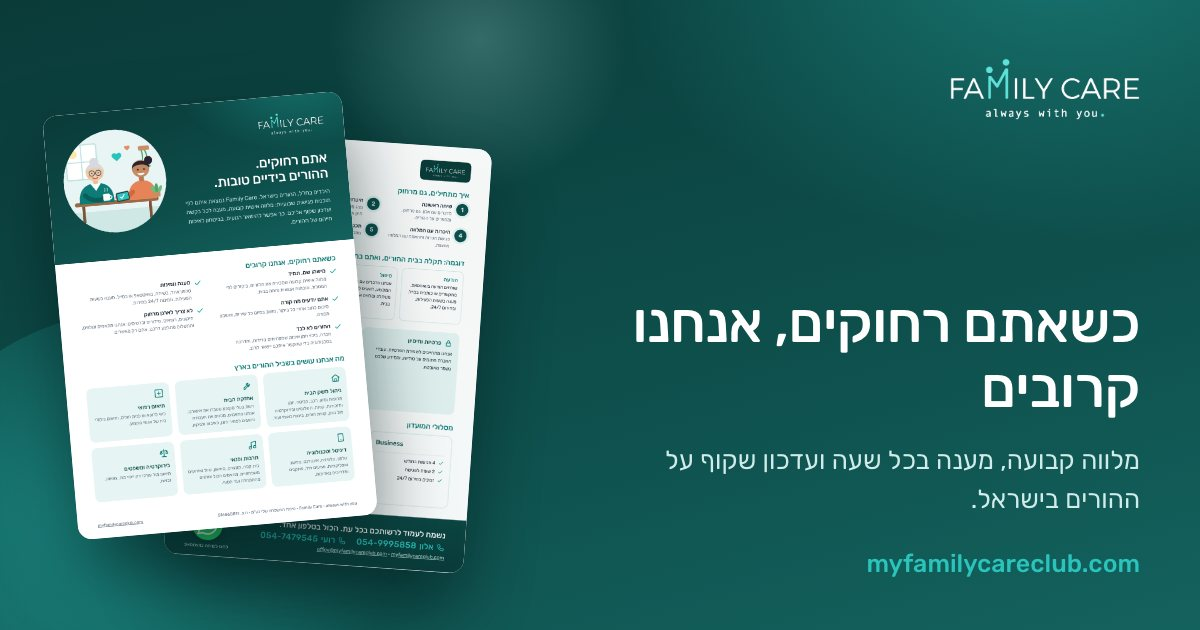
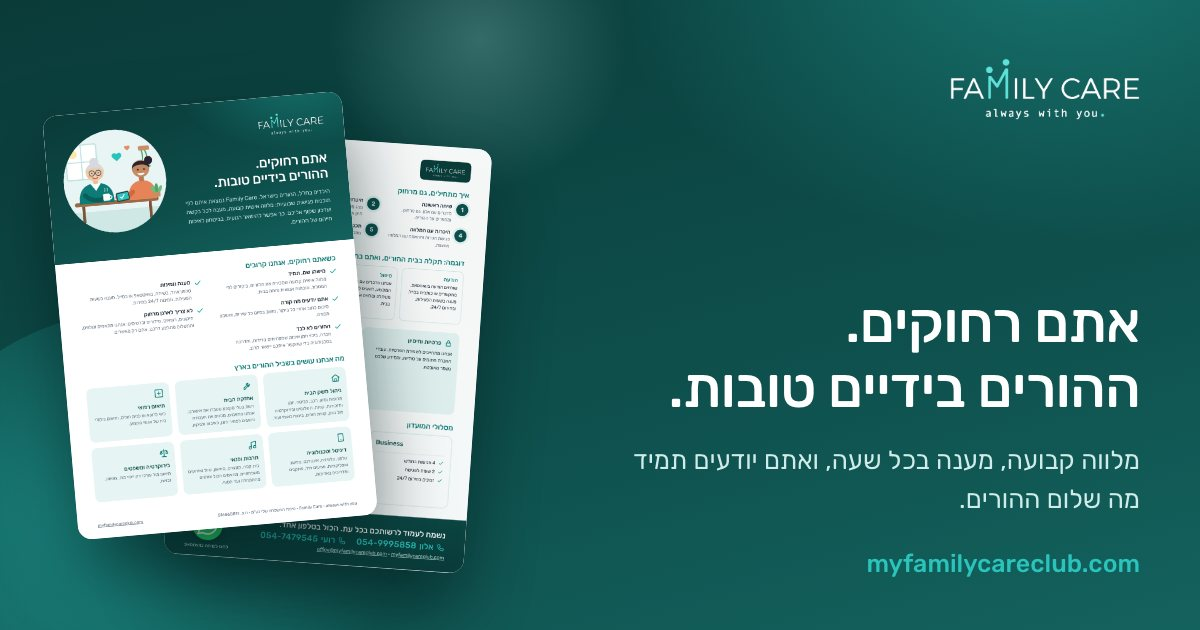
Abroad share card: headline matches brochure, new subline without 'עדכון שקוף' (cache-bust v7)

Changed region(s): [[0.5242, 0.4825, 0.9558, 0.6635], [0.5242, 0.7238, 0.7092, 0.754], [0.8017, 0.7841, 0.925, 0.8143]]

diff --git a/public/s/abroad/index.html b/public/s/abroad/index.html
@@ -3,20 +3,20 @@
 <head>
 <meta charset="utf-8">
 <meta name="viewport" content="width=device-width, initial-scale=1">
-<title>Family Care | כשאתם רחוקים, אנחנו קרובים</title>
-<meta name="description" content="הילדים בחו&quot;ל, ההורים בישראל: מלווה אישית קבועה, מענה לכל בקשה ועדכון שקוף.">
+<title>Family Care | אתם רחוקים. ההורים בידיים טובות.</title>
+<meta name="description" content="הילדים בחו&quot;ל, ההורים בישראל: מלווה אישית קבועה, מענה לכל בקשה, ואתם יודעים תמיד מה שלומם.">
 <meta property="og:type" content="website">
 <meta property="og:site_name" content="Family Care">
 <meta property="og:locale" content="he_IL">
 <meta property="og:url" content="https://myfamilycareclub.com/s/abroad/">
-<meta property="og:title" content="כשאתם רחוקים, אנחנו קרובים">
-<meta property="og:description" content="הילדים בחו&quot;ל, ההורים בישראל: מלווה אישית קבועה, מענה לכל בקשה ועדכון שקוף.">
-<meta property="og:image" content="https://myfamilycareclub.com/s/abroad/card.jpg?v=6">
+<meta property="og:title" content="אתם רחוקים. ההורים בידיים טובות.">
+<meta property="og:description" content="הילדים בחו&quot;ל, ההורים בישראל: מלווה אישית קבועה, מענה לכל בקשה, ואתם יודעים תמיד מה שלומם.">
+<meta property="og:image" content="https://myfamilycareclub.com/s/abroad/card.jpg?v=7">
 <meta property="og:image:width" content="1200">
 <meta property="og:image:height" content="630">
 <meta name="twitter:card" content="summary_large_image">
 <meta http-equiv="refresh" content="0;url=/materials/abroad-brochure.pdf">
 <style>body{margin:0;min-height:100vh;display:grid;place-items:center;font-family:system-ui,sans-serif;background:#0E4F4C;color:#fff;text-align:center}a{color:#fff;background:#16A5A0;padding:14px 28px;border-radius:999px;text-decoration:none;font-weight:600}</style>
 </head>
-<body><main><p>כשאתם רחוקים, אנחנו קרובים</p><p><a href="/materials/abroad-brochure.pdf">פתיחת הברושור</a></p></main></body>
+<body><main><p>אתם רחוקים. ההורים בידיים טובות.</p><p><a href="/materials/abroad-brochure.pdf">פתיחת הברושור</a></p></main></body>
 </html>

diff --git a/public/s/social-post-independence/index.html b/public/s/social-post-independence/index.html
@@ -11,7 +11,7 @@
 <meta property="og:url" content="https://myfamilycareclub.com/s/social-post-independence/">
 <meta property="og:title" content="עצמאות מלאה, וביטחון שיש על מי לסמוך">
 <meta property="og:description" content="מלווה אישית קבועה, בעלי מקצוע נבחרים וטיפול מלא מההזמנה ועד הסיום.">
-<meta property="og:image" content="https://myfamilycareclub.com/s/social-post-independence/card.jpg?v=6">
+<meta property="og:image" content="https://myfamilycareclub.com/s/social-post-independence/card.jpg?v=7">
 <meta property="og:image:width" content="1200">
 <meta property="og:image:height" content="630">
 <meta name="twitter:card" content="summary_large_image">

diff --git a/public/s/social-post-second-job/index.html b/public/s/social-post-second-job/index.html
@@ -11,7 +11,7 @@
 <meta property="og:url" content="https://myfamilycareclub.com/s/social-post-second-job/">
 <meta property="og:title" content="הבית של ההורים הפך לעבודה השנייה שלך?">
 <meta property="og:description" content="מלווה אישית קבועה, בעלי מקצוע נבחרים וטיפול מלא מההזמנה ועד הסיום.">
-<meta property="og:image" content="https://myfamilycareclub.com/s/social-post-second-job/card.jpg?v=6">
+<meta property="og:image" content="https://myfamilycareclub.com/s/social-post-second-job/card.jpg?v=7">
 <meta property="og:image:width" content="1200">
 <meta property="og:image:height" content="630">
 <meta name="twitter:card" content="summary_large_image">

diff --git a/public/s/social-post-extra-child/index.html b/public/s/social-post-extra-child/index.html
@@ -11,7 +11,7 @@
 <meta property="og:url" content="https://myfamilycareclub.com/s/social-post-extra-child/">
 <meta property="og:title" content="הילד הנוסף שאין לך זמן להיות עבורם">
 <meta property="og:description" content="מלווה אישית קבועה, בעלי מקצוע נבחרים וטיפול מלא מההזמנה ועד הסיום.">
-<meta property="og:image" content="https://myfamilycareclub.com/s/social-post-extra-child/card.jpg?v=6">
+<meta property="og:image" content="https://myfamilycareclub.com/s/social-post-extra-child/card.jpg?v=7">
 <meta property="og:image:width" content="1200">
 <meta property="og:image:height" content="630">
 <meta name="twitter:card" content="summary_large_image">

diff --git a/public/s/companions-social-pdf/index.html b/public/s/companions-social-pdf/index.html
@@ -11,7 +11,7 @@
 <meta property="og:url" content="https://myfamilycareclub.com/s/companions-social-pdf/">
 <meta property="og:title" content="מחפשים עבודה עם משמעות לצד הלימודים?">
 <meta property="og:description" content="מלווים אישיים לגיל השלישי ברמת השרון, הרצליה, צפון ת&quot;א ורעננה.">
-<meta property="og:image" content="https://myfamilycareclub.com/s/companions-social-pdf/card.jpg?v=6">
+<meta property="og:image" content="https://myfamilycareclub.com/s/companions-social-pdf/card.jpg?v=7">
 <meta property="og:image:width" content="1200">
 <meta property="og:image:height" content="630">
 <meta name="twitter:card" content="summary_large_image">

diff --git a/public/s/companions-social-png/index.html b/public/s/companions-social-png/index.html
@@ -11,7 +11,7 @@
 <meta property="og:url" content="https://myfamilycareclub.com/s/companions-social-png/">
 <meta property="og:title" content="מחפשים עבודה עם משמעות לצד הלימודים?">
 <meta property="og:description" content="מלווים אישיים לגיל השלישי ברמת השרון, הרצליה, צפון ת&quot;א ורעננה.">
-<meta property="og:image" content="https://myfamilycareclub.com/s/companions-social-png/card.jpg?v=6">
+<meta property="og:image" content="https://myfamilycareclub.com/s/companions-social-png/card.jpg?v=7">
 <meta property="og:image:width" content="1200">
 <meta property="og:image:height" content="630">
 <meta name="twitter:card" content="summary_large_image">

diff --git a/public/s/social-story-teaser-2/index.html b/public/s/social-story-teaser-2/index.html
@@ -11,7 +11,7 @@
 <meta property="og:url" content="https://myfamilycareclub.com/s/social-story-teaser-2/">
 <meta property="og:title" content="הילד הנוסף שאין לך זמן להיות עבורם">
 <meta property="og:description" content="מלווה אישית קבועה, בעלי מקצוע נבחרים וטיפול מלא מההזמנה ועד הסיום.">
-<meta property="og:image" content="https://myfamilycareclub.com/s/social-story-teaser-2/card.jpg?v=6">
+<meta property="og:image" content="https://myfamilycareclub.com/s/social-story-teaser-2/card.jpg?v=7">
 <meta property="og:image:width" content="1200">
 <meta property="og:image:height" content="630">
 <meta name="twitter:card" content="summary_large_image">

diff --git a/public/s/social-story-mom-called/index.html b/public/s/social-story-mom-called/index.html
@@ -11,7 +11,7 @@
 <meta property="og:url" content="https://myfamilycareclub.com/s/social-story-mom-called/">
 <meta property="og:title" content="אמא התקשרה שוב. המזגן לא עובד.">
 <meta property="og:description" content="מלווה אישית קבועה, בעלי מקצוע נבחרים וטיפול מלא מההזמנה ועד הסיום.">
-<meta property="og:image" content="https://myfamilycareclub.com/s/social-story-mom-called/card.jpg?v=6">
+<meta property="og:image" content="https://myfamilycareclub.com/s/social-story-mom-called/card.jpg?v=7">
 <meta property="og:image:width" content="1200">
 <meta property="og:image:height" content="630">
 <meta name="twitter:card" content="summary_large_image">

diff --git a/public/s/social-tip-stay-close/index.html b/public/s/social-tip-stay-close/index.html
@@ -11,7 +11,7 @@
 <meta property="og:url" content="https://myfamilycareclub.com/s/social-tip-stay-close/">
 <meta property="og:title" content="איך נשארים קרובים גם כשגרים רחוק">
 <meta property="og:description" content="מלווה אישית קבועה, בעלי מקצוע נבחרים וטיפול מלא מההזמנה ועד הסיום.">
-<meta property="og:image" content="https://myfamilycareclub.com/s/social-tip-stay-close/card.jpg?v=6">
+<meta property="og:image" content="https://myfamilycareclub.com/s/social-tip-stay-close/card.jpg?v=7">
 <meta property="og:image:width" content="1200">
 <meta property="og:image:height" content="630">
 <meta name="twitter:card" content="summary_large_image">

diff --git a/public/s/social-story-who-manages/index.html b/public/s/social-story-who-manages/index.html
@@ -11,7 +11,7 @@
 <meta property="og:url" content="https://myfamilycareclub.com/s/social-story-who-manages/">
 <meta property="og:title" content="מי דואג להורים כשאת בפגישה?">
 <meta property="og:description" content="מלווה אישית קבועה, בעלי מקצוע נבחרים וטיפול מלא מההזמנה ועד הסיום.">
-<meta property="og:image" content="https://myfamilycareclub.com/s/social-story-who-manages/card.jpg?v=6">
+<meta property="og:image" content="https://myfamilycareclub.com/s/social-story-who-manages/card.jpg?v=7">
 <meta property="og:image:width" content="1200">
 <meta property="og:image:height" content="630">
 <meta name="twitter:card" content="summary_large_image">

diff --git a/public/s/social-post-daughter/index.html b/public/s/social-post-daughter/index.html
@@ -11,7 +11,7 @@
 <meta property="og:url" content="https://myfamilycareclub.com/s/social-post-daughter/">
 <meta property="og:title" content="חזרי להיות הבת, לא מנהלת הפרויקט">
 <meta property="og:description" content="מלווה אישית קבועה, בעלי מקצוע נבחרים וטיפול מלא מההזמנה ועד הסיום.">
-<meta property="og:image" content="https://myfamilycareclub.com/s/social-post-daughter/card.jpg?v=6">
+<meta property="og:image" content="https://myfamilycareclub.com/s/social-post-daughter/card.jpg?v=7">
 <meta property="og:image:width" content="1200">
 <meta property="og:image:height" content="630">
 <meta name="twitter:card" content="summary_large_image">

diff --git a/public/s/social-story-teaser-3/index.html b/public/s/social-story-teaser-3/index.html
@@ -11,7 +11,7 @@
 <meta property="og:url" content="https://myfamilycareclub.com/s/social-story-teaser-3/">
 <meta property="og:title" content="מי מנהל את הבית של ההורים שלך?">
 <meta property="og:description" content="מלווה אישית קבועה, בעלי מקצוע נבחרים וטיפול מלא מההזמנה ועד הסיום.">
-<meta property="og:image" content="https://myfamilycareclub.com/s/social-story-teaser-3/card.jpg?v=6">
+<meta property="og:image" content="https://myfamilycareclub.com/s/social-story-teaser-3/card.jpg?v=7">
 <meta property="og:image:width" content="1200">
 <meta property="og:image:height" content="630">
 <meta name="twitter:card" content="summary_large_image">
